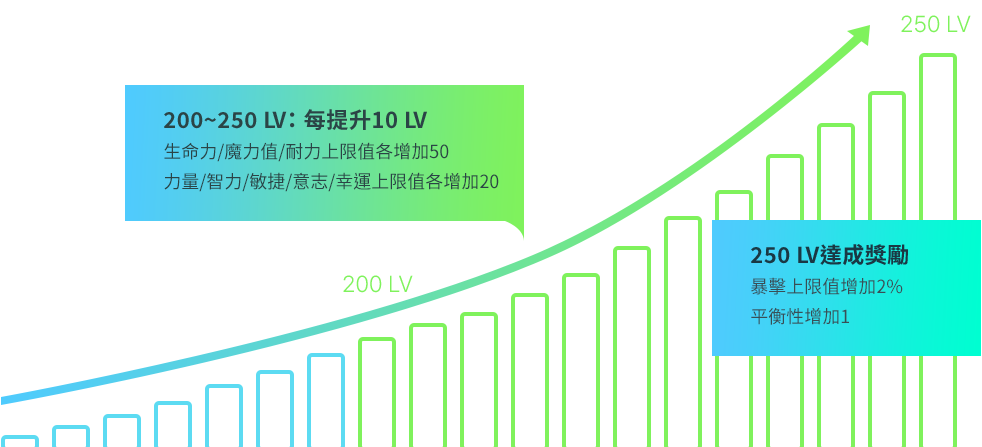
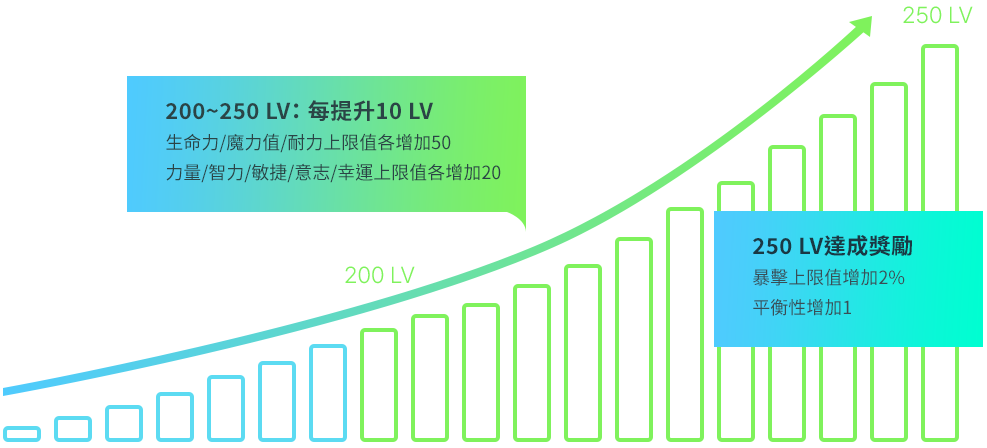
調整版面

Changed region(s): [[0.0, 0.0, 1.0, 1.0], [0.1222, 0.1454, 0.5499, 0.4362], [0.7637, 0.5235, 0.947, 0.7271]]

diff --git a/css/main.css b/css/main.css
@@ -971,8 +971,8 @@ span.btn_span {
 
 .cont_05>.textBox>.txt {
     z-index: 1;
-    width: 570px;
-    height: 223px;
+    width: 541px;
+    height: 219px;
     background-image: url(../img/page/cont_05_title.png);
     background-repeat: no-repeat;
 }
@@ -990,8 +990,8 @@ span.btn_span {
     background-image: url(../img/page/cont_05_content.png);
     background-repeat: no-repeat;
     background-size: contain;
-    width: 982px;
-    height: 447px;
+    width: 987px;
+    height: 448px;
 }
 
 .btn_go_top {

diff --git a/css/extra.css b/css/extra.css
@@ -207,8 +207,8 @@
   }
 
   .cont_01 .intro .left .char {
-    width: 996px;
-    height: 450px;
+    width: 954px;
+    height: 470px;
   }
 
   .cont_01 .intro .left .char .title {
@@ -434,13 +434,13 @@
 
   .cont_05 .content {
     width: 100vw;
-    aspect-ratio: 982 / 453;
+    aspect-ratio: 987 / 448;
     height: unset;
   }
 
   .cont_05>.textBox>.txt {
-    width: 285px;
-    height: 111px;
+    width: 270px;
+    height: 110px;
     background-size: cover;
   }
 
